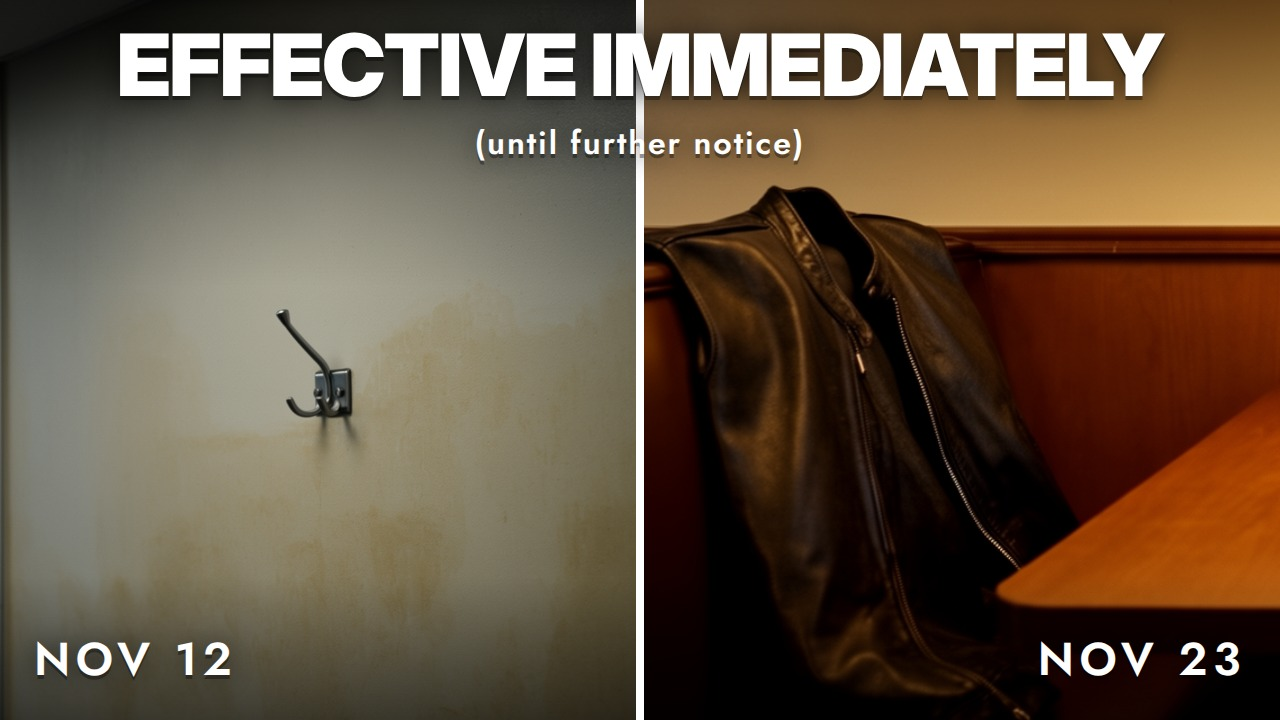
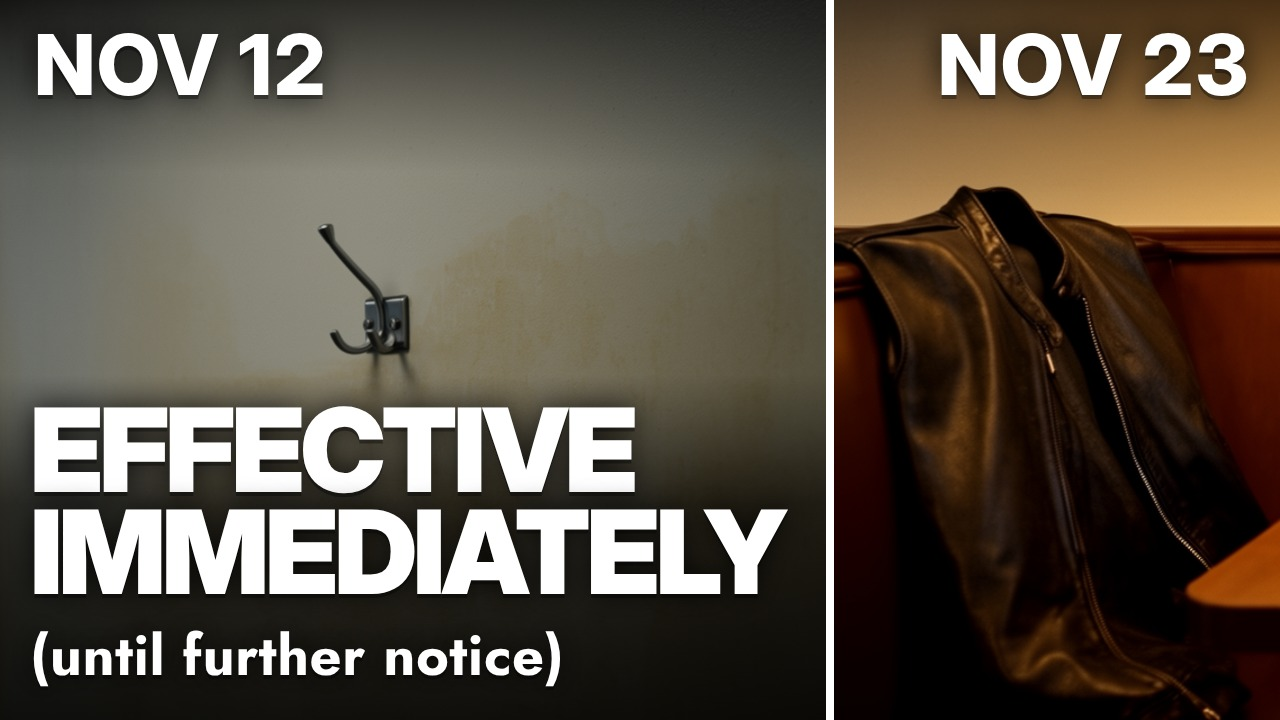
Thumbnail A: bigger text for phones
The hook's half widens so the title stacks in two lines at 116 px; the dates
move to the top of each half, above the hook and the jacket's collar.

Claude-Session: https://claude.ai/code/session_01U1tVYjiGEW9cMAfzpZKv2H

diff --git a/remotion/src/Thumbnail.tsx b/remotion/src/Thumbnail.tsx
@@ -16,23 +16,34 @@ const Plate: React.FC<{src: string; pos?: string; style?: React.CSSProperties}> 
 
 /**
  * A: the empty hook on Nov 12, the jacket back in the booth on Nov 23. The booth half starts at the plate's left edge, where
- * the jacket is, so all of it shows beside the divider (human note: it was cropped); the title sits across the top, clear of
- * the jacket and the hook.
+ * the jacket is, so all of it shows beside the divider (human note: it was cropped).
+ *
+ * Sized for phones (human note: the text was too small to read on mobile). The hook's half is wider (A_LEFT) so the title
+ * can stack in two lines on its bare wall; the booth's half is just wide enough for the whole jacket (440 px at this scale).
+ * Each half's date sits at its top, above the hook and the jacket's collar, so no text covers either. S01 is scaled a
+ * little past cover (A_HOOK_K) and anchored at its foot, which lifts the hook (plate y 467-627) to y ~225-350, clear of the
+ * title, and makes it bigger.
  */
+const A_LEFT = 830;
+const A_HOOK_K = 0.8; // S01's scale (cover is 720/1088 = 0.662)
+const A_HOOK_X = 780; // where the half starts in the scaled plate: bare wall only (scaled x 768-1884), the hook at x ~315-410
 const Split: React.FC = () => (
   <AbsoluteFill style={{background: '#000'}}>
-    <div style={{position: 'absolute', left: 0, top: 0, width: 640, height: 720, overflow: 'hidden'}}>
-      <Plate src="S01" pos="60% 50%" style={{filter: 'saturate(0.6) brightness(0.95)'}} />
+    <div style={{position: 'absolute', left: 0, top: 0, width: A_LEFT, height: 720, overflow: 'hidden'}}>
+      <Img src={staticFile('gen/plates/S01.png')} style={{position: 'absolute', left: -A_HOOK_X, top: 720 - 1088 * A_HOOK_K, width: 2560 * A_HOOK_K, height: 1088 * A_HOOK_K, filter: 'saturate(0.6) brightness(0.8)'}} />
+      <AbsoluteFill style={{background: 'linear-gradient(180deg, rgba(0,0,0,0.6) 0%, rgba(0,0,0,0) 24%, rgba(0,0,0,0) 52%, rgba(0,0,0,0.6) 70%, rgba(0,0,0,0.82) 100%)'}} />
     </div>
-    <div style={{position: 'absolute', left: 640, top: 0, width: 640, height: 720, overflow: 'hidden'}}>
+    <div style={{position: 'absolute', left: A_LEFT, top: 0, width: 1280 - A_LEFT, height: 720, overflow: 'hidden'}}>
       <Plate src="S03" pos="0% 50%" />
+      <AbsoluteFill style={{background: 'linear-gradient(180deg, rgba(0,0,0,0.65) 0%, rgba(0,0,0,0.2) 20%, rgba(0,0,0,0) 30%)'}} />
     </div>
-    <AbsoluteFill style={{background: 'linear-gradient(180deg, rgba(0,0,0,0.55) 0%, rgba(0,0,0,0.15) 26%, rgba(0,0,0,0) 40%, rgba(0,0,0,0) 80%, rgba(0,0,0,0.45) 100%)'}} />
-    <div style={{position: 'absolute', left: 636, top: 0, width: 8, height: 720, background: '#fff'}} />
-    <div style={{...big, position: 'absolute', left: 0, right: 0, top: 26, textAlign: 'center', fontSize: 86}}>Effective immediately</div>
-    <div style={{...tag, position: 'absolute', left: 0, right: 0, top: 120, textAlign: 'center', fontSize: 32, letterSpacing: '0.06em', textTransform: 'none'}}>(until further notice)</div>
-    <div style={{...tag, position: 'absolute', left: 34, bottom: 28, fontSize: 46}}>Nov 12</div>
-    <div style={{...tag, position: 'absolute', right: 34, bottom: 28, fontSize: 46}}>Nov 23</div>
+    <div style={{position: 'absolute', left: A_LEFT - 4, top: 0, width: 8, height: 720, background: '#fff'}} />
+    <div style={{...big, position: 'absolute', left: 34, top: 26, fontSize: 84, fontWeight: 800, letterSpacing: '0.02em'}}>Nov 12</div>
+    <div style={{...big, position: 'absolute', right: 30, top: 26, fontSize: 84, fontWeight: 800, letterSpacing: '0.02em'}}>Nov 23</div>
+    <div style={{position: 'absolute', left: 30, bottom: 24, display: 'flex', flexDirection: 'column'}}>
+      <div style={{...big, fontSize: 116, letterSpacing: '-0.035em', lineHeight: 0.88}}>Effective<br />immediately</div>
+      <div style={{...tag, fontSize: 56, fontWeight: 700, letterSpacing: '0.01em', textTransform: 'none', marginTop: 12}}>(until further notice)</div>
+    </div>
   </AbsoluteFill>
 );
 

diff --git a/METADATA.md b/METADATA.md
@@ -11,7 +11,7 @@ YouTube metadata for the main video and the four vertical Shorts, ready to paste
 - **After upload:** put the video's link into the README ("Watch it on YouTube"). Done: https://youtu.be/i5uLYgoSIkk
   (uploaded 2026-11-24), in the README and the Shorts' footer below.
 - **Intervention count.** Update the number in the description if more are logged
-  (`grep -c '^## ' log/human_interventions.md`; 23 on 2026-11-24, after the upload).
+  (`grep -c '^## ' log/human_interventions.md`; 24 on 2026-11-24, after the thumbnail fix).
 - **Databento's terms** require "Market data provided by Databento" wherever the data is published: it is in the end
   card and in the description below. Keep both.
 
@@ -50,7 +50,7 @@ On November 12, 2026, Nvidia announced that its co-founder had resigned as CEO, 
 WHO HAS A STAKE
 The lyrics were written by Claude, and the video made by Claude Code, both from Anthropic. Nvidia is an Anthropic shareholder: it pledged up to $10bn in 2025 and bought about $10bn of shares alongside Anthropic's November 2026 IPO, and Anthropic runs Claude partly on Nvidia GPUs. Music: Suno, backed by Nvidia's venture arm. Stills: FLUX.2 [dev] (Black Forest Labs, Nvidia-backed). Clips: LTX-2.3 (Lightricks; Nvidia optimized its models, no investment found). All of it ran on the creator's Nvidia RTX 5090, as the opening shows. The creator holds no Nvidia shares directly. The plan was audited on Nov 23, 2026 by ChatGPT (OpenAI, in which Nvidia invested $30bn in 2026) and Gemini (Google, an Nvidia customer that builds rival chips and is a major Anthropic shareholder).
 
-Every frame, note and word was made by AI: the song by Suno, the words by Claude, the pictures by FLUX.2, LTX-2.3 and Blender, the edit by Claude Code. A human approved each stage, edited the master, picked the takes and ran the audits. Each of those 23 interventions is logged, along with every prompt and production step:
+Every frame, note and word was made by AI: the song by Suno, the words by Claude, the pictures by FLUX.2, LTX-2.3 and Blender, the edit by Claude Code. A human approved each stage, edited the master, picked the takes and ran the audits. Each of those 24 interventions is logged, along with every prompt and production step:
 https://github.com/Derivative-Work/effective-immediately
 
 CHAPTERS
@@ -137,7 +137,7 @@ Rendered from `remotion/src/Thumbnail.tsx` (`npx remotion still remotion/src/ind
 
 | Option | Picture | Text | Notes |
 | --- | --- | --- | --- |
-| **A (the human's pick)** | Split: the empty hook (cold) and the jacket back in the diner booth (warm), the whole jacket in frame | EFFECTIVE IMMEDIATELY (until further notice) across the top · NOV 12 · NOV 23 in the bottom corners | The whole joke in one frame; reads at phone size. |
+| **A (the human's pick)** | Split: the empty hook (cold, the wider half) and the jacket back in the diner booth (warm), the whole hook and the whole jacket in frame | NOV 12 · NOV 23 at the top of each half; EFFECTIVE / IMMEDIATELY in two lines with (until further notice) under the hook | The whole joke in one frame. The text was enlarged for phones (title 86 → 116 px, the rest 1.8–2.6×) and reads at 168 px wide. |
 | B | The empty hook alone | OUT. EFFECTIVE IMMEDIATELY. · BACK IN 11 DAYS | Starkest; the brief's "empty jacket" idea. |
 | C | The empty counselor's chair, the company in silhouette | WE DID NOT INTEND… (TO TAKE HIM BACK) | The brief's other idea; the lyric as the hook. |
 

diff --git a/log/decisions.md b/log/decisions.md
@@ -302,6 +302,20 @@ Condition (i) rests on Databento's dataset documentation, which says US Equities
   - Subtitles, chapters, the end screen and the captions file are re-timed (`METADATA.md`, `deliverables/effective_immediately.en.srt`).
 - **Framing under the panel (human, same day):** the first version only covered the intro footage, so its subjects sat under the panel (G14's walker at about half the width, G01's walker at the doors). The footage now sits in the 814 px right of the panel, cropped at full scale, not shrunk, around each clip's subject (`OpeningReframe` in `remotion/src/Animatic.tsx`). G14 pans with its walker from 0.50 to 0.31 of the width, G13 holds on the feet at 0.58, and G01 follows the walker from 0.42 to 0.60. The box widens back to the full frame as the panel slides away. This is how Distillation (Allegedly) placed its D02 beside its panel.
 - **Thumbnail A (the human's pick; "the jacket is cropped"):** the booth half had started 12% into the plate, cutting the jacket in half, and the title covered its lower half. The booth half now starts at the plate's left edge, so the whole jacket shows (the plate itself ends at its far-left edge, beside the divider). The title runs across the top and the dates sit in the bottom corners, clear of the jacket and the hook.
+- **Thumbnail A's text, for phones (human, after upload: "thumbnail text needs to be bigger to be legible on mobile"):**
+  - **The problem:** in one line across the top, the title could be no wider than about 100 px a letter-height before it
+    ran into the jacket's collar. "(until further notice)" was 32 px and the dates 46 px, about 4–6 px tall in a phone's
+    smaller lists.
+  - **The halves are now unequal:**
+    - The booth half is 450 px wide, just enough for the whole jacket (440 px at the plate's scale).
+    - The hook half is 830 px, with bare wall only.
+  - **New text layout and sizes:**
+    - The title stacks in two lines on the hook's wall at 116 px, with "(until further notice)" under it at 56 px.
+    - Each date sits at the top of its half at 84 px in Inter, above the hook and the collar.
+  - **The hook's plate:** S01 is scaled to 0.8, a little past cover, and anchored at its foot. This lifts the hook clear of
+    the title and makes it bigger.
+  - **Check:** downscaled to 360 and 168 px wide, the title and dates read at both sizes, and the subtitle at 360. The
+    previous version is in `archive/thumbnails/`.
 
 ## 35. 2026-11-24 — Four vertical Shorts (human note; the brief asked for one)
 

diff --git a/log/production_log.md b/log/production_log.md
@@ -190,3 +190,11 @@ Append-only. One entry per generation, render or analysis step.
   - Soundtrack from `scripts/soundtrack.py`, muxed without re-encoding the picture → `deliverables/effective_immediately_1080p.mp4` (7:43.0, AAC 320 kbps).
   - Song and credits music within 0.1 ms of their sources at nine points. A contact sheet of 16 frames shows no animatic labels.
 - **Shorts:** `npx remotion render remotion/src/index.ts Short-<id> …` for chorus, bridge, reinstated and plaque, then 0.15 s and 0.6 s audio fades (video copied) → `deliverables/effective_immediately_short_<id>.mp4`. Captions from `scripts/shorts_srt.py`.
+
+## 21. 2026-11-24 — Upload; thumbnail A re-set for phones (human interventions 23–24)
+
+- **Link:** the main video's YouTube link went into the README and the Shorts' footer (`8d92d50`).
+- **Thumbnail A:** `remotion/src/Thumbnail.tsx` (`Split`) re-laid out for phones (decisions 34).
+  - Command: `npx remotion still remotion/src/index.ts Thumb-A deliverables/thumbnails/effective_immediately_thumbnail_A.jpg --image-format=jpeg --jpeg-quality=92`.
+  - Checked at 1280, 360 and 168 px wide.
+  - The previous version is `archive/thumbnails/effective_immediately_thumbnail_A_v2_small_text.jpg`.

diff --git a/log/human_interventions.md b/log/human_interventions.md
@@ -134,3 +134,8 @@ Append-only. Every human action: when, what, and why.
 - **What:** the human uploaded the main video to YouTube and gave its link: "video URL https://youtu.be/i5uLYgoSIkk".
 - **Effect:** the link went into the README ("Watch it on YouTube") and the Shorts' shared footer in `METADATA.md`, ready
   for the Shorts' upload. The description's intervention count in `METADATA.md` went from 19 to 23.
+
+## 24. 2026-11-24 — Thumbnail text for phones
+
+- **What:** "thumbnail text needs to be bigger to be legible on mobile".
+- **Effect:** decisions 34 (thumbnail A's text, for phones). Thumbnail A re-rendered; the human replaces it on YouTube.
